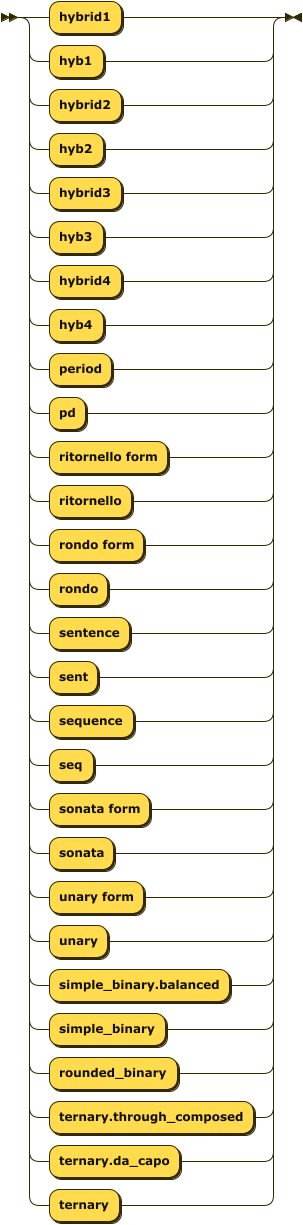
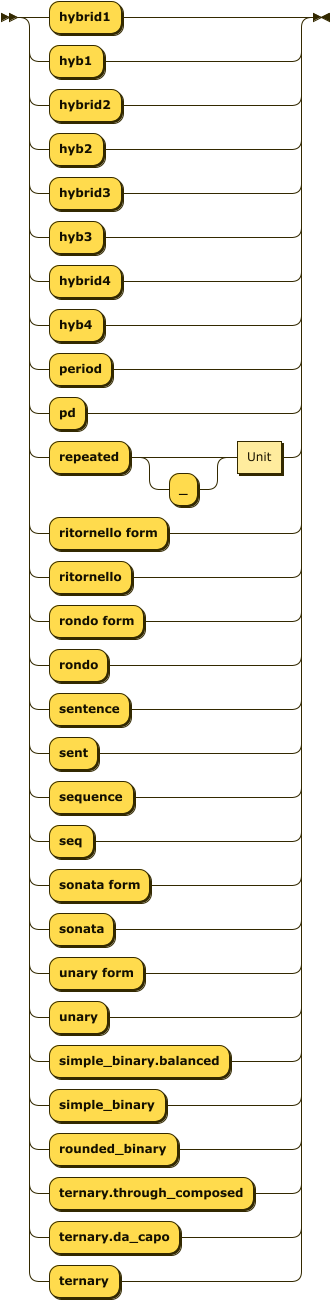
allows for generic "repeated_<unit>" types

diff --git a/grammar/lcma_standardParser.py b/grammar/lcma_standardParser.py
@@ -254,7 +254,7 @@ class lcma_standardGrammar(Grammar):
         parser = lcma_standard()
         syntax_tree = parser(source_code)
     """
-    source_hash__ = "d10eef49f6c657d37a38bf514c137c57"
+    source_hash__ = "a736d0b583c7355dd85d77ee166577bc"
     disposable__ = re.compile('$.')
     static_analysis_pending__ = []  # type: List[bool]
     parser_initialization__ = ["upon instantiation"]
@@ -272,10 +272,10 @@ class lcma_standardGrammar(Grammar):
     SourceOnly = Series(MaterialRef, Text(','))
     TargetOnly = Series(Text(','), MaterialRef)
     MaterialPositions = Alternative(TargetOnly, Series(MaterialRef, Text(','), MaterialRef), SourceOnly, MaterialRef)
-    FormalType = Alternative(Text('hybrid1'), Text('hyb1'), Text('hybrid2'), Text('hyb2'), Text('hybrid3'), Text('hyb3'), Text('hybrid4'), Text('hyb4'), Text('period'), Text('pd'), Text('ritornello form'), Text('ritornello'), Text('rondo form'), Text('rondo'), Text('sentence'), Text('sent'), Text('sequence'), Text('seq'), Text('sonata form'), Text('sonata'), Text('unary form'), Text('unary'), Text('simple_binary.balanced'), Text('simple_binary'), Text('rounded_binary'), Text('ternary.through_composed'), Text('ternary.da_capo'), Text('ternary'))
-    TypeExp = Alternative(Series(Text('"'), FormalType, Text('"')), FormalType)
-    SpecificFunction = Alternative(Text('antecedent'), Text('ant'), Text('after-the-end'), Text('ate'), Text('basic idea'), Text('bi'), Text('cadential idea'), Text('cad'), Text('compound basic idea'), Text('cbi'), Text('codetta'), Text('cdta'), Text('contrasting idea'), Text('ci'), Text('closing theme'), Text('cls'), Text('coda'), Text('consequent'), Text('cons'), Text('continuation idea'), Text('continuation'), Text('conti'), Text('cont'), Text('development section'), Text('dev'), Text('essential expositional closure'), Text('eec'), Text('essential sonata closure'), Text('esc'), Text('exposition'), Text('exp'), Text('fragmentation'), Text('frag'), Text('introduction'), Text('intro'), Text('lead-in'), Text('lin'), Text('model'), Text('mod'), Text('movement'), Text('mvt'), Text('postcadential'), Text('pcad'), Text('presentation'), Text('pres'), Text('primary theme zone'), Text('primary theme'), Text('ptz'), Text('pt'), Text('recapitulation'), Text('recap'), Text('ritornello'), Text('rit'), Text('retransition'), Text('rtr'), Text('secondary theme zone'), Text('secondary theme'), Text('stz'), Text('st'), Text('sequence'), Text('seq'), Text('transition'), Text('tr'))
     Unit = Alternative(Text('unit'), Text('x'), Text('part'), Text('section'), Text('phrase'), Text('sub-phrase'), Text('idea'), Text('work'), Text('movement'), Text('zone'), Text('theme'), Text('album'), Text('song'), Text('cycle'), Text('group'))
+    FormalType = Alternative(Text('hybrid1'), Text('hyb1'), Text('hybrid2'), Text('hyb2'), Text('hybrid3'), Text('hyb3'), Text('hybrid4'), Text('hyb4'), Text('period'), Text('pd'), Series(Text('repeated'), Option(Text('_')), wsp__, Unit), Text('ritornello form'), Text('ritornello'), Text('rondo form'), Text('rondo'), Text('sentence'), Text('sent'), Text('sequence'), Text('seq'), Text('sonata form'), Text('sonata'), Text('unary form'), Text('unary'), Text('simple_binary.balanced'), Text('simple_binary'), Text('rounded_binary'), Text('ternary.through_composed'), Text('ternary.da_capo'), Text('ternary'))
+    SpecificFunction = Alternative(Text('antecedent'), Text('ant'), Text('after-the-end'), Text('ate'), Text('basic idea'), Text('bi'), Text('cadential idea'), Text('cad'), Text('compound basic idea'), Text('cbi'), Text('codetta'), Text('cdta'), Text('contrasting idea'), Text('ci'), Text('closing theme'), Text('cls'), Text('coda'), Text('consequent'), Text('cons'), Text('continuation idea'), Text('continuation'), Text('conti'), Text('cont'), Text('development section'), Text('dev'), Text('essential expositional closure'), Text('eec'), Text('essential sonata closure'), Text('esc'), Text('exposition'), Text('exp'), Text('fragmentation'), Text('frag'), Text('introduction'), Text('intro'), Text('lead-in'), Text('lin'), Text('model'), Text('mod'), Text('movement'), Text('mvt'), Text('postcadential'), Text('pcad'), Text('presentation'), Text('pres'), Text('primary theme zone'), Text('primary theme'), Text('ptz'), Text('pt'), Text('recapitulation'), Text('recap'), Text('ritornello'), Text('rit'), Text('retransition'), Text('rtr'), Text('secondary theme zone'), Text('secondary theme'), Text('stz'), Text('st'), Text('sequence'), Text('seq'), Text('transition'), Text('tr'))
+    TypeExp = Alternative(Series(Text('"'), FormalType, Text('"')), FormalType)
     Cardinality = Alternative(Text('1st'), Text('2nd'), Text('3rd'), Text('4th'), Text('5th'), Text('6th'), Text('7th'), Text('8th'), Text('9th'))
     GenericFunction = Series(Option(Series(Cardinality, Option(Text("_")))), wsp__, Unit)
     FunctionName = Alternative(GenericFunction, SpecificFunction)

diff --git a/grammar/validate.py b/grammar/validate.py
@@ -33,7 +33,7 @@ def concatenate_dict_values_recursively(specs: Iterator[str | dict]) -> str:
     return result
 
 
-def concatenate_regex_results(name_list: list) -> str:
+def concatenate_regex_results(name_list: list, strip=True) -> str:
     """Processes a list of regEx matches and returns the result.
 
     Example input:
@@ -42,6 +42,8 @@ def concatenate_regex_results(name_list: list) -> str:
          [':RegExp', 'm'],
          [':RegExp', 'e']]
     """
+    if strip:
+        return "".join(character.strip() for (_, character) in name_list)
     return "".join(character for (_, character) in name_list)
 
 
@@ -235,6 +237,14 @@ class MainType(FancyStrEnum):
     hyb4 = hybrid4
     period = auto()
     pd = period
+    # repeated_movement
+    repeated_part = auto()
+    repeated_section = auto()
+    repeated_zone = auto()
+    repeated_theme = auto()
+    repeated_phrase = auto()
+    repeated_subphrase = auto()
+    repeated_idea = auto()
     ritornello_form = auto()
     ritornello = ritornello_form
     rondo_form = auto()
@@ -800,7 +810,12 @@ def parse_name(name_list: list) -> str:
 
 
 def parse_type_name(type_name: str) -> Tuple[MainType, Optional[SubType]]:
-    if "." in type_name:
+    if isinstance(type_name, list):
+        # e.g.: [[':Text', 'repeated'], [':Text', '_'], ['Unit', 'section']]
+        type_name = concatenate_regex_results(type_name)
+    elif isinstance(type_name, dict):
+        type_name = "repeated_" + type_name["Unit"]
+    elif "." in type_name:
         main_str, sub_str = type_name.split(".", 1)
         main = MainType(main_str)
         sub = SubType(sub_str)

diff --git a/grammar/index.md b/grammar/index.md
@@ -168,6 +168,7 @@ Unit     ::= 'unit'
 
 referenced by:
 
+* FormalType
 * GenericFunction
 
 **SpecificFunction:**
@@ -274,6 +275,7 @@ FormalType
            | 'hyb4'
            | 'period'
            | 'pd'
+           | 'repeated' '_'? Unit
            | 'ritornello form'
            | 'ritornello'
            | 'rondo form'
